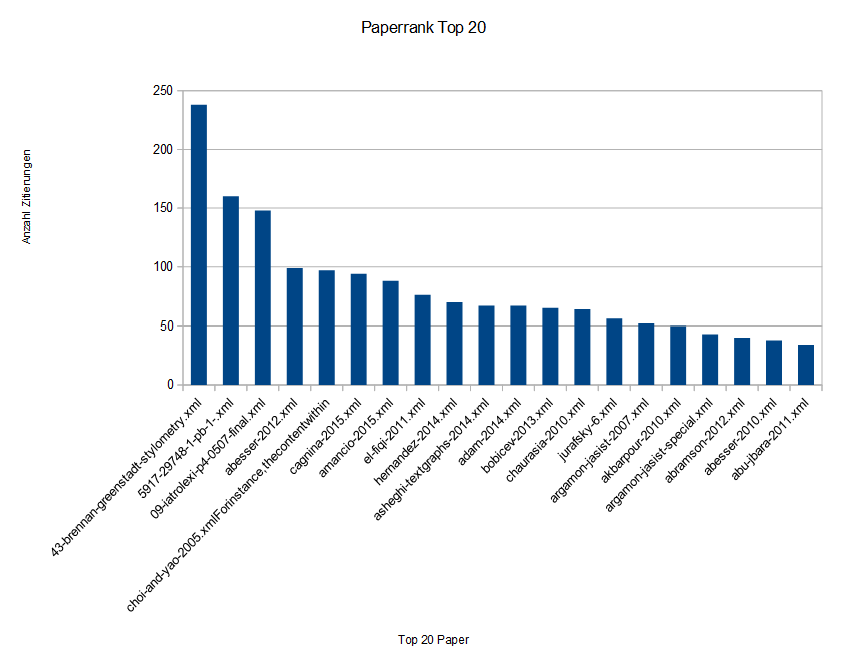
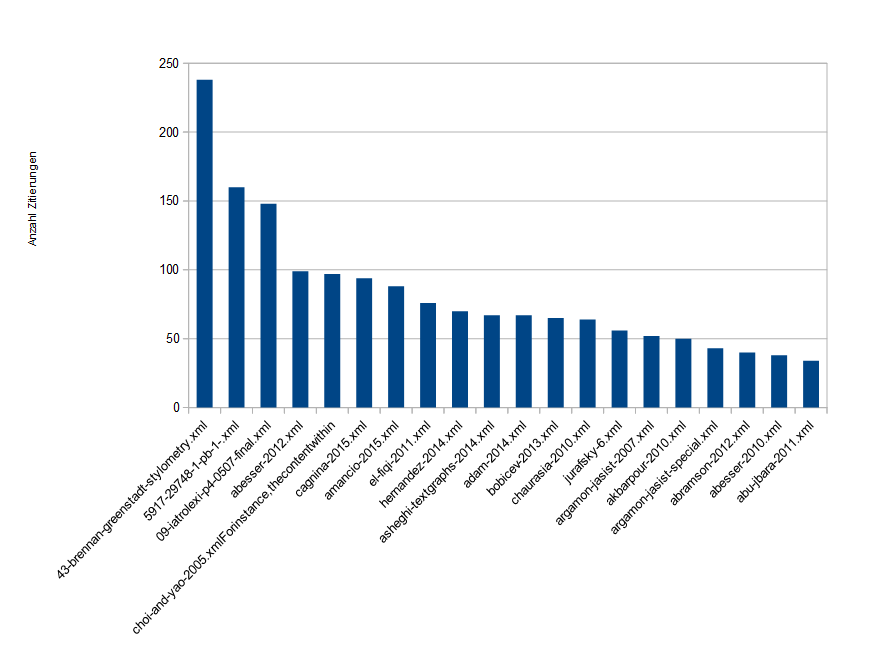
Abbildung Paperrank

diff --git a/Dokumentation/section/preprocessing.tex b/Dokumentation/section/preprocessing.tex
@@ -119,7 +119,7 @@ Daraufhin werden die Titel gezählt und sortiert. Es entsteht eine Liste mit den
 
 \begin{figure}[ht]
 
-    \includegraphics[width=\linewidth]{Abb\space Paperrank.png}
+    \includegraphics[width=\linewidth]{anzahl_zitierungen}
   \caption[]{Anzahl der Zitierungen für die top 20 Paper}
 \label{fig:paperrank}
 \end{figure}
